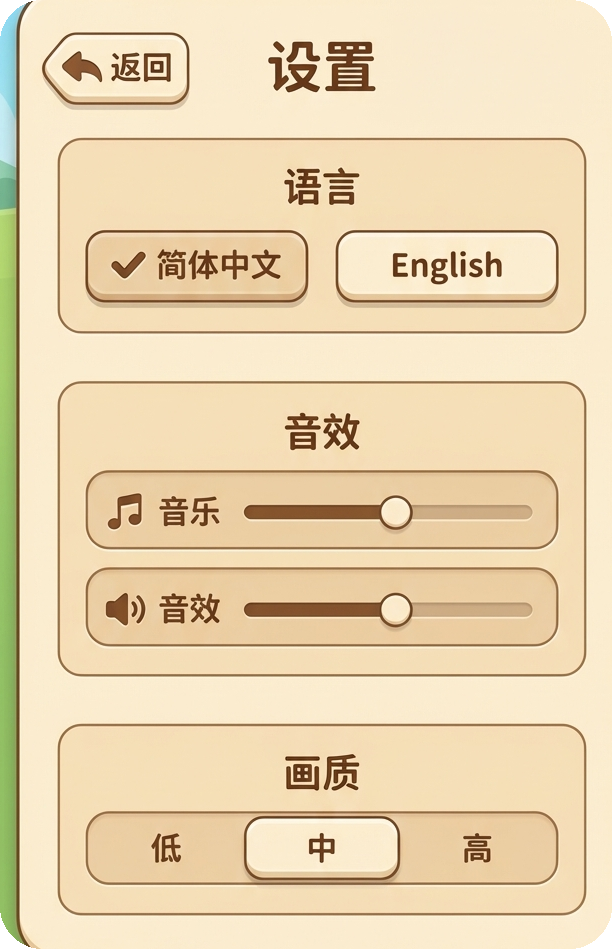
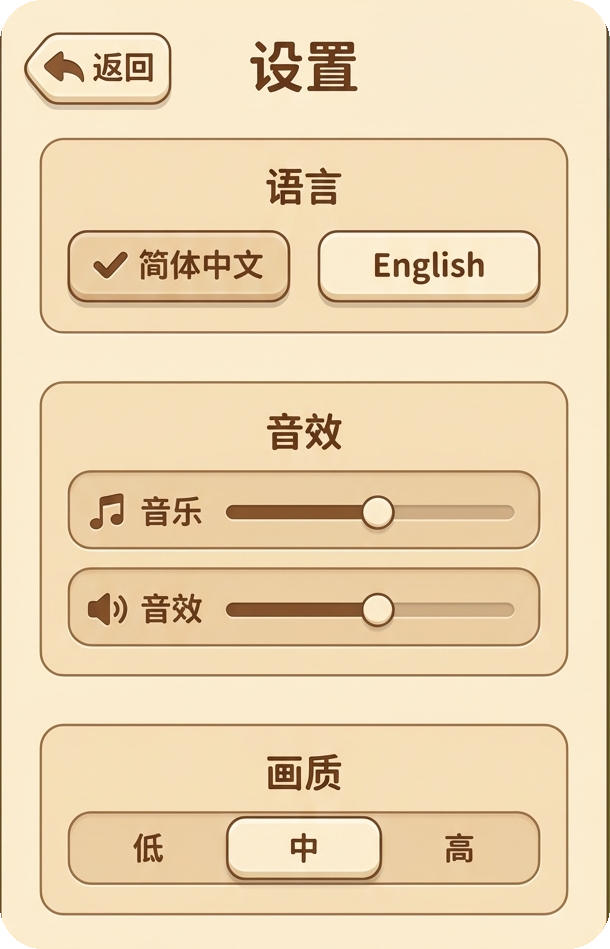
fix: restore play button interaction and clean settings panel edge

diff --git a/css/style.css b/css/style.css
@@ -1000,6 +1000,7 @@ body {
 #menuOverlay .menu-home-hero {
     position: absolute;
     inset: 0;
+    pointer-events: none;
 }
 
 #menuOverlay .menu-home-title {
@@ -1014,6 +1015,8 @@ body {
     margin: 0;
     padding: 0;
     gap: 0;
+    z-index: 4;
+    pointer-events: auto;
 }
 
 #menuOverlay .btn-play {
@@ -1025,6 +1028,9 @@ body {
     color: transparent;
     text-shadow: none;
     font-size: 0;
+    cursor: pointer;
+    pointer-events: auto;
+    touch-action: manipulation;
 }
 
 #menuOverlay .current-level-tag {
@@ -1042,6 +1048,7 @@ body {
     background: transparent;
     box-shadow: none;
     padding: 50px 12px 12px;
+    z-index: 2;
 }
 
 #menuOverlay .menu-feature-grid-v2 {
@@ -1078,19 +1085,8 @@ body {
     height: 552px;
     border: 0;
     border-radius: 24px;
-    background: var(--asset-settings-concept) 52% 50% / 103% 103% no-repeat;
+    background: var(--asset-settings-concept) center / 100% 100% no-repeat;
     box-shadow: none;
-}
-
-#settingsOverlay .panel-shell::after {
-    content: '';
-    position: absolute;
-    left: 0;
-    top: 0;
-    bottom: 0;
-    width: 3px;
-    background: #f4e8ce;
-    pointer-events: none;
 }
 
 #settingsOverlay .panel-head {

diff --git a/js/ui.js b/js/ui.js
@@ -103,8 +103,13 @@ export class UI {
         if (!element) return;
 
         element.addEventListener('click', () => {
-            resumeAudio();
-            playClickSound();
+            try {
+                resumeAudio();
+                playClickSound();
+            } catch (error) {
+                console.warn(`Audio click failed for #${id}:`, error);
+            }
+
             handler();
         });
     }
@@ -401,8 +406,12 @@ export class UI {
                 }
                 button.textContent = i;
                 button.addEventListener('click', () => {
-                    resumeAudio();
-                    playClickSound();
+                    try {
+                        resumeAudio();
+                        playClickSound();
+                    } catch (error) {
+                        console.warn('Audio click failed for level button:', error);
+                    }
                     this.startSpecificLevel(i);
                 });
             } else {

diff --git a/index.html b/index.html
@@ -9,7 +9,7 @@
     <link rel="preconnect" href="https://fonts.googleapis.com">
     <link rel="preconnect" href="https://fonts.gstatic.com" crossorigin>
     <link href="https://fonts.googleapis.com/css2?family=Nunito:wght@700;800;900&family=ZCOOL+KuaiLe&display=swap" rel="stylesheet">
-    <link rel="stylesheet" href="css/style.css?v=37">
+    <link rel="stylesheet" href="css/style.css?v=38">
 </head>
 <body>
     <div class="app-container">
@@ -241,6 +241,6 @@
         <div id="errorVignette" class="error-vignette"></div>
     </div>
 
-    <script type="module" src="js/main.js?v=65"></script>
+    <script type="module" src="js/main.js?v=66"></script>
 </body>
 </html>

diff --git a/js/main.js b/js/main.js
@@ -2,7 +2,7 @@
  * Main - game entry
  */
 import { Game } from './game.js?v=52';
-import { UI } from './ui.js?v=34';
+import { UI } from './ui.js?v=35';
 import { initLevelStorage } from './level-storage.js?v=41';
 import { initUiTheme } from './ui-theme.js?v=1';
 
